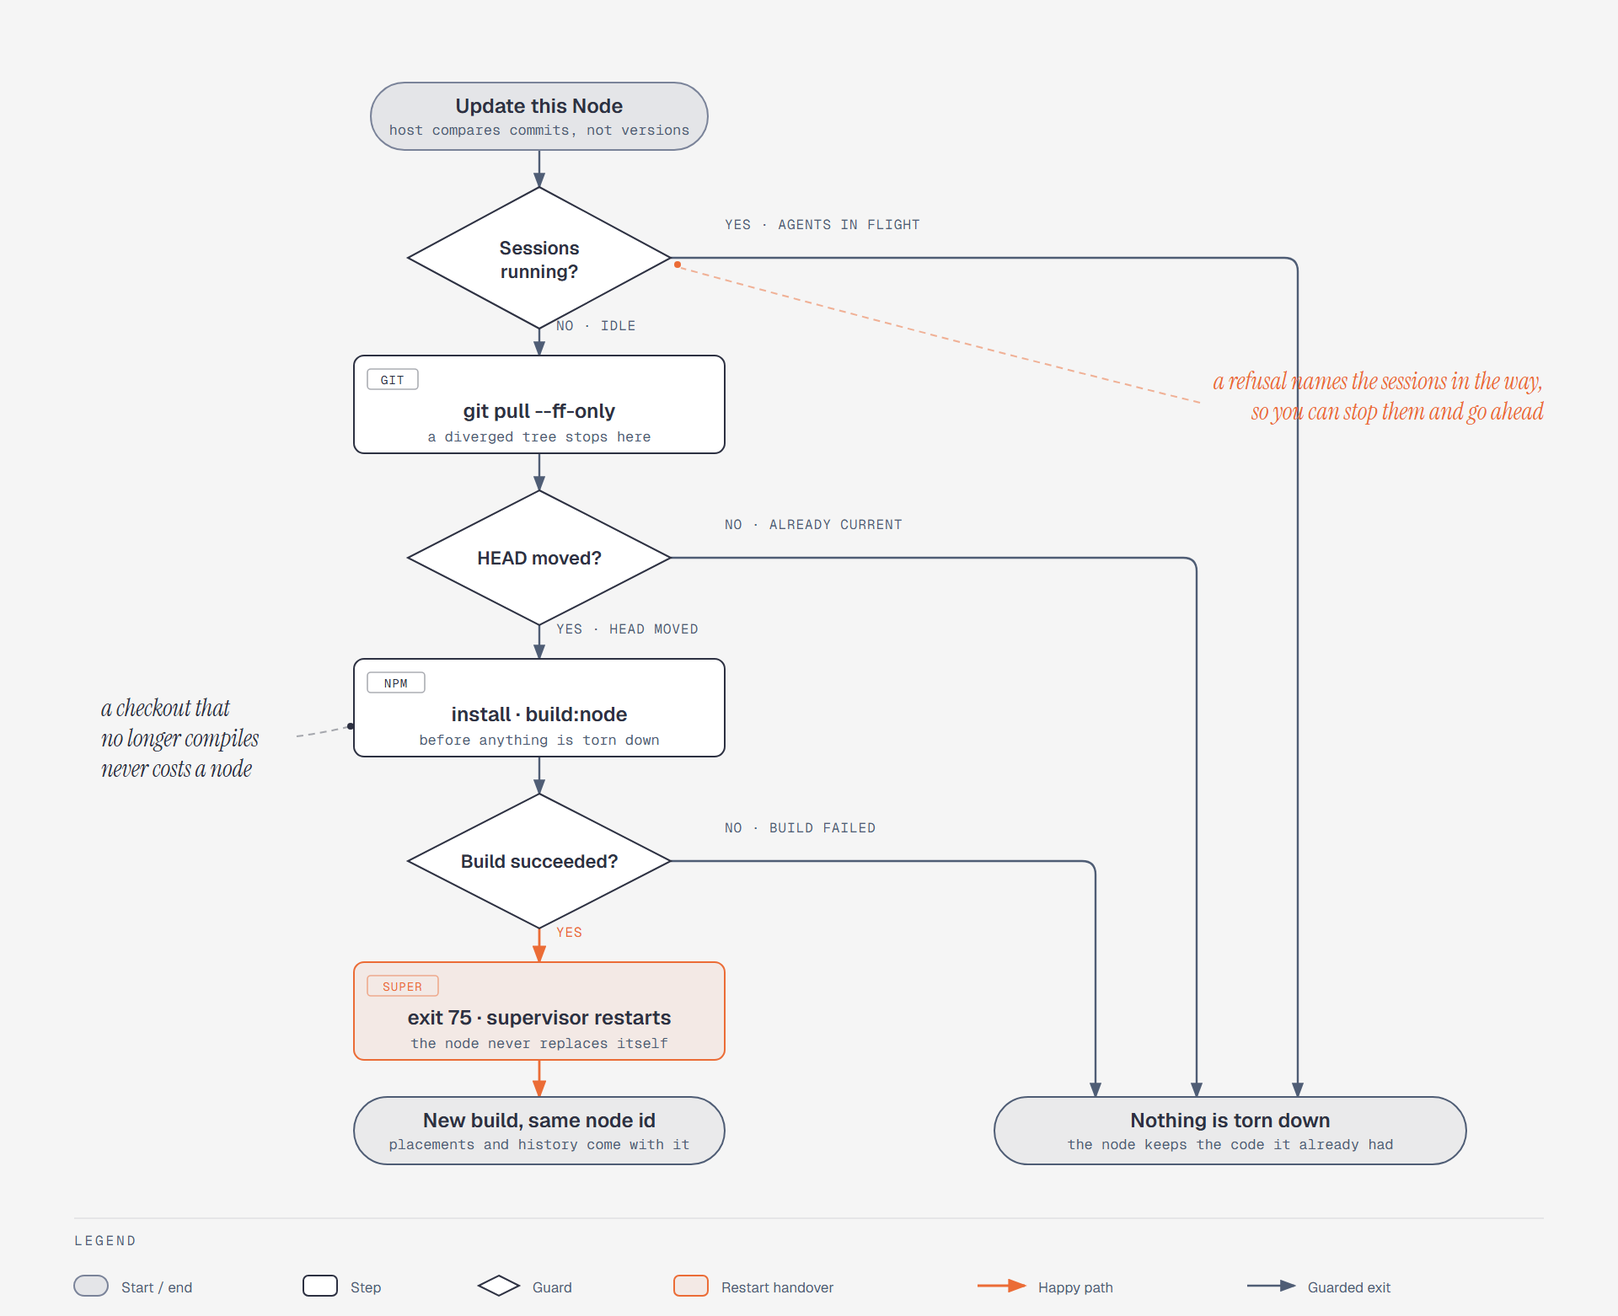
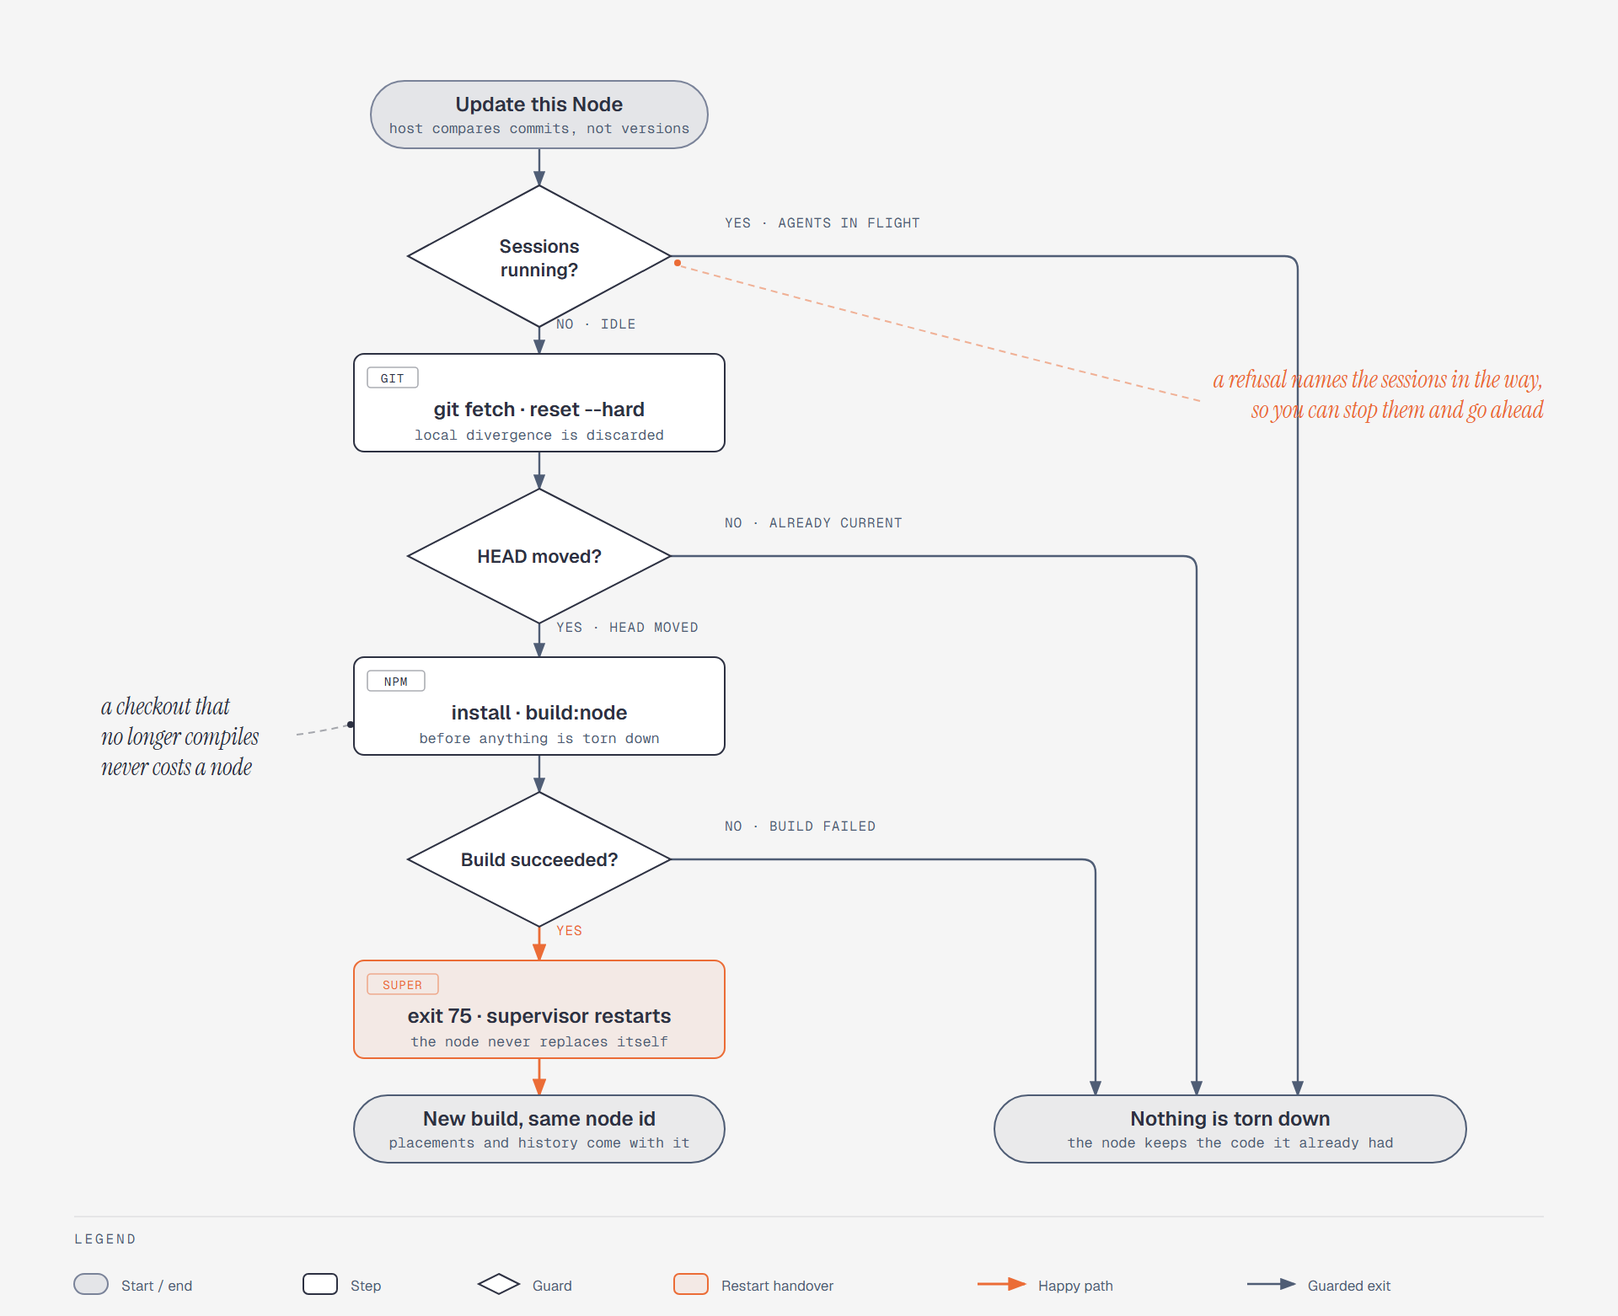
fix(node): force the update onto the remote instead of refusing to merge
The reported symptom was auto-update failing on a node, sometimes, with a
conflict. `--ff-only` was the cause, and it was chosen for a situation that does
not exist here: it protects work in a checkout someone is using. Nobody is at
the keyboard of a node. A machine that had picked up a local commit -- a debug
print committed months ago, a merge someone started on the box, an edit made
over RDP and never cleaned up -- refused every update from that moment on and
stayed behind the rest of the fleet until a human logged into it. The guard was
protecting nothing and costing the whole point of "Update all".

A Node's checkout is a deployment, not somewhere to keep work. The remote is
what that machine is supposed to be running, so the pull is now a fetch and a
hard reset, and local commits and local edits to tracked files are discarded to
get there.

The reset target is asked for rather than assumed. `git rev-parse --abbrev-ref
--symbolic-full-name @{u}` names the branch this checkout tracks, so a machine
parked on a release branch is reset onto that branch instead of being dragged
onto `origin/main` by a hard-coded ref -- which would be a far worse failure
than the one being fixed, because it would succeed. A branch with no upstream
stops with git's own message, which names the branch.

`git clean` is deliberately not part of this. `git reset --hard` already deletes
the untracked files that stand where a tracked file has to go, which is the only
[…]

diff --git a/apps/node/src/updater.integration.test.ts b/apps/node/src/updater.integration.test.ts
@@ -1,5 +1,5 @@
 import { execFileSync } from "node:child_process";
-import { mkdtempSync, rmSync, writeFileSync } from "node:fs";
+import { existsSync, mkdtempSync, readFileSync, rmSync, writeFileSync } from "node:fs";
 import { tmpdir } from "node:os";
 import { join } from "node:path";
 import { afterAll, describe, expect, it } from "vitest";
@@ -8,9 +8,10 @@ import { runCommand, updateCheckout, type CommandResult } from "./updater.js";
 /**
  * The scripted tests prove the decisions; this proves the commands.
  *
- * `git pull --ff-only` and `rev-parse` are the two calls whose real behaviour
- * the update depends on, and a stub agreeing with itself would not have caught
- * argument or platform mistakes in the ones actually issued.
+ * `git fetch`, the upstream lookup and `git reset --hard` are the calls whose
+ * real behaviour the update depends on, and a stub agreeing with itself would
+ * not have caught argument or platform mistakes in the ones actually issued —
+ * `@{u}` in particular travels through a shell on Windows.
  */
 
 const temporary: string[] = [];
@@ -52,12 +53,24 @@ function commit(repository: string, file: string, contents: string): void {
   git(repository, "commit", "-m", `add ${file}`);
 }
 
+/** The commit a repository is on; `short` matches what the update reports. */
+function head(repository: string, short = false): string {
+  return execFileSync(
+    "git",
+    short ? ["rev-parse", "--short=12", "HEAD"] : ["rev-parse", "HEAD"],
+    {
+      cwd: repository,
+      encoding: "utf8",
+    },
+  ).trim();
+}
+
 describe("updateCheckout against a real repository", () => {
   // Real git plus a Windows shell is far slower than the default per-test budget.
   const timeout = 60_000;
 
   it(
-    "fast-forwards a clone and reports the commit it landed on",
+    "moves a clone onto the remote and reports the commit it landed on",
     async () => {
       const origin = makeTemp("fleet-origin-");
       git(origin, "init", "--initial-branch=main");
@@ -86,11 +99,7 @@ describe("updateCheckout against a real repository", () => {
         run: gitOnly(npmCalls),
       });
       expect(updated.action).toBe("restart");
-      const head = execFileSync("git", ["rev-parse", "--short=12", "HEAD"], {
-        cwd: clone,
-        encoding: "utf8",
-      }).trim();
-      expect(updated).toEqual({ action: "restart", revision: head });
+      expect(updated).toEqual({ action: "restart", revision: head(clone, true) });
       // The build has to run before a restart is proposed, or a node could exit
       // into a tree that does not compile.
       expect(npmCalls).toEqual(["npm install", "npm run build:node"]);
@@ -99,7 +108,7 @@ describe("updateCheckout against a real repository", () => {
   );
 
   it(
-    "refuses to move a checkout that has diverged",
+    "forces a diverged checkout onto the remote",
     async () => {
       const origin = makeTemp("fleet-origin2-");
       git(origin, "init", "--initial-branch=main");
@@ -114,9 +123,46 @@ describe("updateCheckout against a real repository", () => {
 
       commit(origin, "upstream.txt", "theirs");
       commit(clone, "local.txt", "mine");
+      // A tracked file edited on the box as well: a fast-forward refused over
+      // either of these, and refusing is how a machine falls a month behind.
+      writeFileSync(join(clone, "first.txt"), "hand-edited");
+      // Nothing the remote tracks stands here, so this has to survive — it is
+      // where a node keeps the address of the Host it answers to.
+      writeFileSync(join(clone, ".env"), "FLEET_HOST_URL=http://127.0.0.1:8787");
 
-      // A machine someone has been hacking on locally must say so rather than
-      // invent a merge nobody asked for while nobody is watching.
+      const npmCalls: string[] = [];
+      const outcome = await updateCheckout({
+        repoRoot: clone,
+        report: () => {},
+        run: gitOnly(npmCalls),
+      });
+
+      expect(outcome.action).toBe("restart");
+      expect(head(clone)).toBe(head(origin));
+      expect(readFileSync(join(clone, "upstream.txt"), "utf8")).toBe("theirs");
+      expect(readFileSync(join(clone, "first.txt"), "utf8")).toBe("one");
+      expect(existsSync(join(clone, "local.txt"))).toBe(false);
+      expect(existsSync(join(clone, ".env"))).toBe(true);
+      expect(npmCalls).toEqual(["npm install", "npm run build:node"]);
+    },
+    timeout,
+  );
+
+  it(
+    "stops on a branch with no upstream rather than guessing at one",
+    async () => {
+      const origin = makeTemp("fleet-origin3-");
+      git(origin, "init", "--initial-branch=main");
+      git(origin, "config", "user.email", "fleet@example.com");
+      git(origin, "config", "user.name", "Fleet Test");
+      commit(origin, "first.txt", "one");
+
+      const clone = makeTemp("fleet-clone3-");
+      execFileSync("git", ["clone", origin, clone], { stdio: "ignore" });
+      git(clone, "checkout", "-b", "detour");
+
+      // Resetting onto origin/main here would move the machine off the branch
+      // someone deliberately put it on, so the update says so and stops.
       const npmCalls: string[] = [];
       const outcome = await updateCheckout({
         repoRoot: clone,

diff --git a/apps/node/src/updater.test.ts b/apps/node/src/updater.test.ts
@@ -42,6 +42,11 @@ function scriptedRun(answers: Record<string, CommandResult[]>) {
 
 const ok = (output = ""): CommandResult => ({ ok: true, output });
 
+/** Every run has to answer the upstream lookup before it can reset onto it. */
+const upstream = {
+  "git rev-parse --abbrev-ref --symbolic-full-name @{u}": [ok("origin/main")],
+};
+
 describe("updateCheckout", () => {
   const stages: NodeUpdateStage[] = [];
   const report = (stage: NodeUpdateStage) => {
@@ -51,6 +56,7 @@ describe("updateCheckout", () => {
   it("installs and builds before asking for a restart", async () => {
     stages.length = 0;
     const { run, calls } = scriptedRun({
+      ...upstream,
       "git rev-parse HEAD": [ok("old111111111111"), ok("new222222222222")],
     });
     const outcome = await updateCheckout({ repoRoot: gitCheckout(), report, run });
@@ -60,17 +66,20 @@ describe("updateCheckout", () => {
     // does not compile must leave the machine on the code it already had.
     expect(calls).toEqual([
       "git rev-parse HEAD",
-      "git pull --ff-only",
+      "git fetch --prune",
+      "git rev-parse --abbrev-ref --symbolic-full-name @{u}",
+      "git reset --hard origin/main",
       "git rev-parse HEAD",
       "npm install",
       "npm run build:node",
     ]);
-    expect(stages).toEqual(["checking", "pulling", "installing", "building"]);
+    expect(stages).toEqual(["checking", "pulling", "pulling", "installing", "building"]);
   });
 
   it("does not restart a node that was already current", async () => {
     stages.length = 0;
     const { run, calls } = scriptedRun({
+      ...upstream,
       "git rev-parse HEAD": [ok("same11111111"), ok("same11111111")],
     });
     const outcome = await updateCheckout({ repoRoot: gitCheckout(), report, run });
@@ -81,16 +90,49 @@ describe("updateCheckout", () => {
     expect(calls).not.toContain("npm install");
   });
 
-  it("stops at a pull that would need a merge, leaving the build alone", async () => {
+  it("resets onto whichever branch the checkout tracks", async () => {
     stages.length = 0;
     const { run, calls } = scriptedRun({
-      "git pull --ff-only": [{ ok: false, output: "Not possible to fast-forward" }],
+      "git rev-parse --abbrev-ref --symbolic-full-name @{u}": [ok("upstream/release")],
+      "git rev-parse HEAD": [ok("old111111111111"), ok("new222222222222")],
+    });
+    await updateCheckout({ repoRoot: gitCheckout(), report, run });
+
+    // Assuming origin/main would drag a machine parked on a release branch onto
+    // a different one, which is a worse outcome than not updating it at all.
+    expect(calls).toContain("git reset --hard upstream/release");
+  });
+
+  it("stops at a fetch that failed, leaving the checkout alone", async () => {
+    stages.length = 0;
+    const { run, calls } = scriptedRun({
+      ...upstream,
+      "git fetch --prune": [{ ok: false, output: "Could not resolve host: github.com" }],
     });
     const outcome = await updateCheckout({ repoRoot: gitCheckout(), report, run });
 
     expect(outcome).toEqual({
       action: "failed",
-      reason: "git pull: Not possible to fast-forward",
+      reason: "git fetch: Could not resolve host: github.com",
+    });
+    // Resetting onto a stale remote-tracking ref would report success while
+    // moving the machine nowhere, or backwards.
+    expect(calls).not.toContain("git reset --hard origin/main");
+    expect(calls).not.toContain("npm run build:node");
+  });
+
+  it("stops when the branch has nothing to be reset onto", async () => {
+    stages.length = 0;
+    const { run, calls } = scriptedRun({
+      "git rev-parse --abbrev-ref --symbolic-full-name @{u}": [
+        { ok: false, output: "no upstream configured for branch 'wip'" },
+      ],
+    });
+    const outcome = await updateCheckout({ repoRoot: gitCheckout(), report, run });
+
+    expect(outcome).toEqual({
+      action: "failed",
+      reason: "git rev-parse @{u}: no upstream configured for branch 'wip'",
     });
     expect(calls).not.toContain("npm run build:node");
   });
@@ -98,6 +140,7 @@ describe("updateCheckout", () => {
   it("keeps running the old build when the new one does not compile", async () => {
     stages.length = 0;
     const { run } = scriptedRun({
+      ...upstream,
       "git rev-parse HEAD": [ok("old111111111111"), ok("new222222222222")],
       "npm run build:node": [{ ok: false, output: "TS2345" }],
     });

diff --git a/apps/node/src/updater.ts b/apps/node/src/updater.ts
@@ -91,12 +91,26 @@ export type UpdateOutcome =
   | { action: "none"; reason: string }
   | { action: "failed"; reason: string };
 
+/** Names the branch this checkout tracks, the same one `git pull` would merge. */
+const UPSTREAM_REF = ["rev-parse", "--abbrev-ref", "--symbolic-full-name", "@{u}"];
+
 /**
  * Brings the checkout up to date, stopping at the first step that fails.
  *
- * `--ff-only` is what keeps this safe to run unattended: a machine with local
- * commits or a dirty tree refuses to move rather than inventing a merge nobody
- * asked for, and says so.
+ * The pull is a fetch followed by a hard reset onto the tracking branch rather
+ * than `git pull`. `--ff-only` was the safer-looking choice and was the wrong
+ * one in practice: nobody is at the keyboard when this runs, so a machine that
+ * had picked up a local commit — a debug print committed months ago, a merge
+ * someone started on the box — refused every update from then on and stayed
+ * behind the rest of the fleet until a human logged in. A Node's checkout is a
+ * deployment, not somewhere to keep work: the remote is what it is supposed to
+ * be running, so local commits and local edits to tracked files are discarded
+ * to get there.
+ *
+ * Untracked files survive, because `git reset --hard` only deletes the ones
+ * standing where a tracked file has to go. That is deliberate — `.env` on that
+ * machine is untracked, and cleaning it away would point the Node at a
+ * different Host, or at none.
  */
 export function updateCheckout({
   repoRoot,
@@ -113,9 +127,24 @@ export function updateCheckout({
       return { action: "failed", reason: `git rev-parse: ${before.output}` };
     }
 
-    report("pulling", "git pull --ff-only");
-    const pull = await run("git", ["pull", "--ff-only"], repoRoot);
-    if (!pull.ok) return { action: "failed", reason: `git pull: ${pull.output}` };
+    report("pulling", "git fetch --prune");
+    const fetched = await run("git", ["fetch", "--prune"], repoRoot);
+    if (!fetched.ok) return { action: "failed", reason: `git fetch: ${fetched.output}` };
+
+    // Asked rather than assumed to be origin/main: a machine parked on a
+    // release branch must be reset onto that branch, not dragged onto another.
+    // git's own message names the branch when there is no upstream at all.
+    const upstream = await run("git", UPSTREAM_REF, repoRoot);
+    if (!upstream.ok) {
+      return { action: "failed", reason: `git rev-parse @{u}: ${upstream.output}` };
+    }
+    const target = upstream.output.trim();
+
+    report("pulling", `git reset --hard ${target}`);
+    const reset = await run("git", ["reset", "--hard", target], repoRoot);
+    if (!reset.ok) {
+      return { action: "failed", reason: `git reset --hard ${target}: ${reset.output}` };
+    }
 
     const after = await run("git", ["rev-parse", "HEAD"], repoRoot);
     if (!after.ok) return { action: "failed", reason: `git rev-parse: ${after.output}` };

diff --git a/docs/update-node.html b/docs/update-node.html
@@ -55,7 +55,7 @@
 
     <svg viewBox="0 0 960 780" xmlns="http://www.w3.org/2000/svg" role="img" aria-labelledby="update-title update-desc">
       <title id="update-title">Updating a Node — every exit leaves the machine as it was</title>
-      <desc id="update-desc">Flowchart of the Host-driven node update: a node running sessions is refused, the checkout is pulled fast-forward only, an unchanged HEAD skips the restart, npm install and the node build both run before anything is torn down, and only a successful build leads to exit status 75 and a supervisor restart. All three refusal paths end at the same terminal, where the node keeps running the code it already had.</desc>
+      <desc id="update-desc">Flowchart of the Host-driven node update: a node running sessions is refused, the checkout is fetched and reset hard onto the branch it tracks, an unchanged HEAD skips the restart, npm install and the node build both run before anything is torn down, and only a successful build leads to exit status 75 and a supervisor restart. All three refusal paths end at the same terminal, where the node keeps running the code it already had.</desc>
       <defs>
         <marker id="arrow" markerWidth="8" markerHeight="6" refX="7" refY="3" orient="auto"><polygon points="0 0, 8 3, 0 6" fill="#4f5d75"/></marker>
         <marker id="arrow-accent" markerWidth="8" markerHeight="6" refX="7" refY="3" orient="auto"><polygon points="0 0, 8 3, 0 6" fill="#eb6c36"/></marker>
@@ -129,8 +129,8 @@
       <rect x="210" y="210" width="220" height="58" rx="6" fill="#ffffff" stroke="#2d3142" stroke-width="1"/>
       <rect x="218" y="218" width="30" height="12" rx="2" fill="transparent" stroke="rgba(45,49,66,0.40)" stroke-width="0.8"/>
       <text x="233" y="227" fill="#2d3142" font-size="7" font-family="'Geist Mono', monospace" text-anchor="middle" letter-spacing="0.08em">GIT</text>
-      <text x="320" y="247" fill="#2d3142" font-size="12" font-weight="600" font-family="'Geist', sans-serif" text-anchor="middle">git pull --ff-only</text>
-      <text x="320" y="261" fill="#4f5d75" font-size="8.5" font-family="'Geist Mono', monospace" text-anchor="middle">a diverged tree stops here</text>
+      <text x="320" y="247" fill="#2d3142" font-size="12" font-weight="600" font-family="'Geist', sans-serif" text-anchor="middle">git fetch · reset --hard</text>
+      <text x="320" y="261" fill="#4f5d75" font-size="8.5" font-family="'Geist Mono', monospace" text-anchor="middle">local divergence is discarded</text>
 
       <!-- Diamond B -->
       <polygon points="320,290 398,330 320,370 242,330" fill="#f5f5f5"/>

diff --git a/README.md b/README.md
@@ -459,7 +459,7 @@ under the Host URL field.
 
 ## Keeping nodes up to date
 
-![Updating a node, as a flowchart: a busy node is refused, the pull is fast-forward only, an unchanged HEAD skips the restart, install and build both run before anything is torn down, and only a successful build reaches exit 75 and a supervisor restart. Every other exit leaves the machine on the code it already had.](docs/update-node.png)
+![Updating a node, as a flowchart: a busy node is refused, the checkout is reset hard onto its tracking branch, an unchanged HEAD skips the restart, install and build both run before anything is torn down, and only a successful build reaches exit 75 and a supervisor restart. Every other exit leaves the machine on the code it already had.](docs/update-node.png)
 
 The shape of that diagram is the whole feature: there is exactly one path that
 ends in a restart, and every guard that fails leaves the machine running what it
@@ -467,9 +467,10 @@ was already running.
 
 The Nodes tab compares each machine's commit with the Host's and marks it **Up
 to date**, **Update available**, or **Manual update**. **Update** on a row — or
-**Update all** above the table — tells those machines to `git pull --ff-only`,
-`npm install`, `npm run build:node`, and restart into the new build. Progress
-appears in the row as it happens.
+**Update all** above the table — tells those machines to `git fetch --prune`,
+`git reset --hard` onto the branch they track, `npm install`,
+`npm run build:node`, and restart into the new build. Progress appears in the row
+as it happens.
 
 The commit is compared, not the package version: `0.1.0` never moves between
 deploys, so comparing it would report every machine as current no matter how far
@@ -483,9 +484,15 @@ What it will not do:
   and go ahead. Each keeps its transcript and can be resumed afterwards.
   **Update all** never does this: it skips busy machines rather than deciding
   for you across the fleet.
-- **Move a checkout that has diverged.** `--ff-only` means a machine with local
-  commits, or a dirty tree in the way, stops and reports it instead of inventing
-  a merge nobody asked for.
+- **Keep local work on a node.** The checkout is reset hard onto the branch it
+  tracks, so local commits and local edits to tracked files are discarded — the
+  remote is what that machine is meant to be running, and `--ff-only` used to
+  mean one stray commit froze a machine behind the fleet until someone logged
+  into it. Untracked files are left alone, so the `.env` naming the Host
+  survives. A node is a deployment; do the work somewhere else.
+- **Move a machine off the branch it is on.** The reset target is the branch's
+  own upstream, not `origin/main`, and a branch with no upstream stops with that
+  as the reason.
 - **Restart into a build that does not compile.** `npm run build:node` runs
   before anything is torn down; if it fails the node stays up on the code it
   already had and reports the error.

diff --git a/ARCHITECTURE.md b/ARCHITECTURE.md
@@ -433,11 +433,15 @@ revision differs from the Host's. A Node built from a tarball reports no
 revision at all and is simply never called stale, since there is nothing to
 compare and no checkout to pull into.
 
-An update pulls fast-forward only, installs, and builds _before_ anything is
-torn down, so a checkout that has diverged, or that no longer compiles, leaves
-the machine running the code it already had. Only once the build succeeds does
-the Node give up its place. A pull that changes nothing skips the restart
+An update fetches, resets the checkout hard onto its tracking branch, installs,
+and builds _before_ anything is torn down, so a build that no longer compiles
+leaves the machine running the code it already had. Only once the build succeeds
+does the Node give up its place. A reset that changes nothing skips the restart
 entirely rather than dropping every connection to arrive back where it started.
+The reset is deliberate: a Node's checkout is a deployment, not somewhere to
+keep work, and `--ff-only` meant one stray local commit on a machine nobody logs
+into froze it behind the rest of the fleet forever. Untracked files survive, so
+the `.env` that names the Host is not swept away with the divergence.
 
 A Node does not replace itself. It exits with status 75 and a supervisor
 (`apps/node/supervisor.mjs`, or PM2/NSSM/systemd) starts the new build. The
